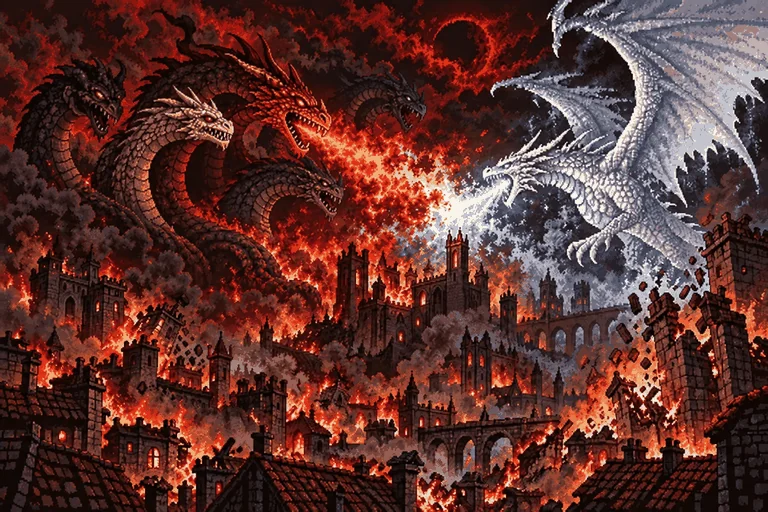
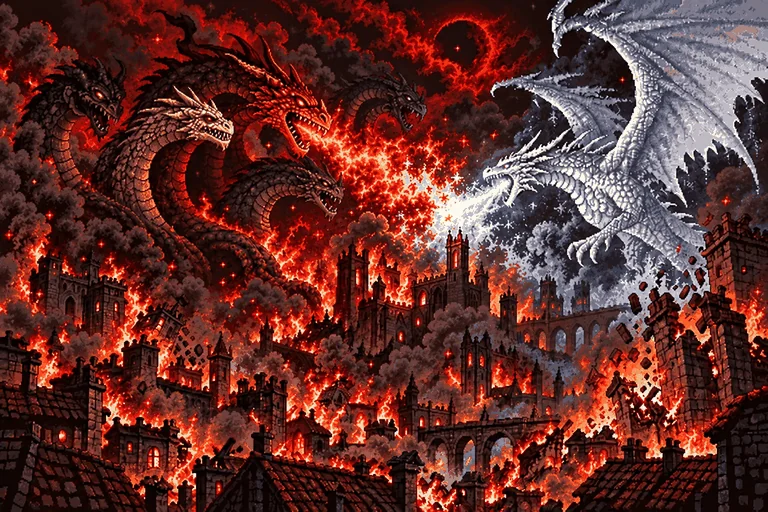
Animate dream smoke and flames and conceal intro character with hood

diff --git a/tools/gen_story_art.js b/tools/gen_story_art.js
@@ -241,7 +241,7 @@ const PIECES = {
   },
   story_nightmare: { subject: 'Dark nightmarish16-bit pixel story illustration. Five-headed hydra Tiamat fights white dragon Ayo over a burning collapsing medieval city. Crimson fire and cold white magic, black-red smoke, no names or text. Landscape3:2 opening panel.', size: '1536x1024', width: 768 },
   // Edit story_nightmare as the visual reference; preserve its framing for crossfade.
-  story_nightmare_frame2: { subject: 'Adjacent frame of story_nightmare: subtle head and jaw movements only. Exactly five hydra heads and one white dragon head. Keep city, camera, bodies, wings, palette and pixel treatment aligned with the original.', size: '1536x1024', width: 768 },
+  story_nightmare_frame2: { subject: 'Adjacent frame of story_nightmare: subtle head and jaw movements, drifting smoke plumes and flickering flame tongues. Exactly five hydra heads and one white dragon head. Keep architecture, camera, bodies, wings, palette and pixel treatment aligned with the original; fire stays anchored to the same structures.', size: '1536x1024', width: 768 },
   story_wake:
     'Morning inside-and-out of a small travelling home wagon parked in a misty meadow. ' +
     'A survivor stretches awake at the wagon door, face fully hidden by a raised brown hood, ' +
@@ -249,7 +249,9 @@ const PIECES = {
   story_wrecks:
     'A suburban neighbourhood of collapsed houses: boarded windows, caved roofs, rubble piles, ' +
     'weeds through cracked pavement. The same survivor stands small in the middle of the street ' +
-    'taking it in. Golden light, overgrown but not grim.',
+    'taking it in, seen from behind with a raised brown cloth hood and short cloak. ' +
+    'The hood completely hides all hair, scalp, ears and face; show draped fabric, never a bare head or helmet. ' +
+    'Golden light, overgrown but not grim.',
   restore_house:
     scene(
     'A cozy restored cottage with fresh timber repairs, warm light in the windows, a small ' +

diff --git a/sw.js b/sw.js
@@ -1,7 +1,7 @@
 // Content-addressed resources survive deployments. HTML stays network-first;
 // tiles retain their independent offline cache. Keep two shell generations so
 // old tabs can still request their exact script URLs after a worker update.
-const SHELL_VERSION = 'shell-e22c295f';
+const SHELL_VERSION = 'shell-e80818b1';
 
 const RESOURCE_CACHE = 'terracart-resources-v1';
 const RESOURCE_MANIFEST = './__terracart_resource_manifest__';
@@ -792,9 +792,9 @@ const ASSET_HASHES = {
   "assets/art/shrine_waystone.webp": "e13ef045",
   "assets/art/shrine_wishing_well.webp": "c143ceb5",
   "assets/art/story_nightmare.webp": "62346b56",
-  "assets/art/story_nightmare_frame2.webp": "c43edfc9",
+  "assets/art/story_nightmare_frame2.webp": "8808b379",
   "assets/art/story_wake.webp": "9dffc1e7",
-  "assets/art/story_wrecks.webp": "f9bff7d3",
+  "assets/art/story_wrecks.webp": "b0c8a77b",
   "assets/art/street_bandit.webp": "48c653c9",
   "assets/art/street_barricade.webp": "b5d12a0d",
   "assets/art/street_burned.webp": "dadec213",

diff --git a/docs/design/presentation.md b/docs/design/presentation.md
@@ -7,7 +7,8 @@ changing dialogue, story panels, books, toasts or status presentation.
 ## Dialogs, feedback and teaching
 
 - The opening dragon-war dream crossfades between two aligned paintings on a
-  six-second loop, with both frames sharing the existing eight-second camera
+  six-second loop, moving dragon heads, drifting smoke and flickering flames,
+  with both frames sharing the existing eight-second camera
   push. Reduced-motion mode shows the first frame without zoom or crossfade.
   The wake-up button timing and the three-slide opening sequence stay the same.
 
